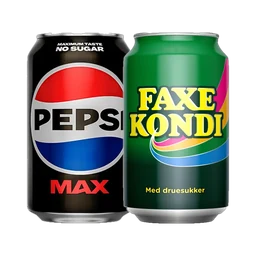
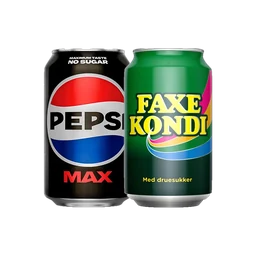
Sodavand-billedet gjort mindre (mere luft omkring)

diff --git a/NOTES.md b/NOTES.md
@@ -39,7 +39,7 @@ Den rigtige brugerliste ligger i **`brugere.local.csv`** i repo-mappen på den p
 - Kilder (faktureringsark, anmeldelser) og teambudget-arket er ikke koblet på.
 - Subdomæne ikke valgt (`xxx.leksione.dk`); `SIDE_URL` står som `webshoppen.leksione.dk`. Ingen `CNAME`-fil endnu.
 - Projekter tæller ikke med i Opgørelse (kun bestillinger/gevinster).
-- Varebilleder i `assets/varer/`: **Monster** (`monster.webp`) og **Sodavand** (`sodavand.webp`, Pepsi Max + Faxe Kondi side om side). Mangler: Candybar og baggrundsbilleder. Nye billeder laves med **`tools/udskaer.py`** (Pillow): `python3 tools/udskaer.py assets/varer/x.webp kilde.jpg [kilde2 …] --luft 1.35` – fjerner hvid baggrund, beskærer, kvadratisk 256px med luft omkring. Sæt stien i Menu-kolonnen `billede`.
+- Varebilleder i `assets/varer/`: **Monster** (`monster.webp`) og **Sodavand** (`sodavand.webp`, Pepsi Max + Faxe Kondi side om side, `--luft 1.5`). Mangler: Candybar og baggrundsbilleder. Nye billeder laves med **`tools/udskaer.py`** (Pillow): `python3 tools/udskaer.py assets/varer/x.webp kilde.jpg [kilde2 …] --luft 1.35` – fjerner hvid baggrund, beskærer, kvadratisk 256px med luft omkring. Sæt stien i Menu-kolonnen `billede`.
 - Rigtigt Google-login er ikke testet (kræver backend + Client ID).
 
 ## Beslutninger
